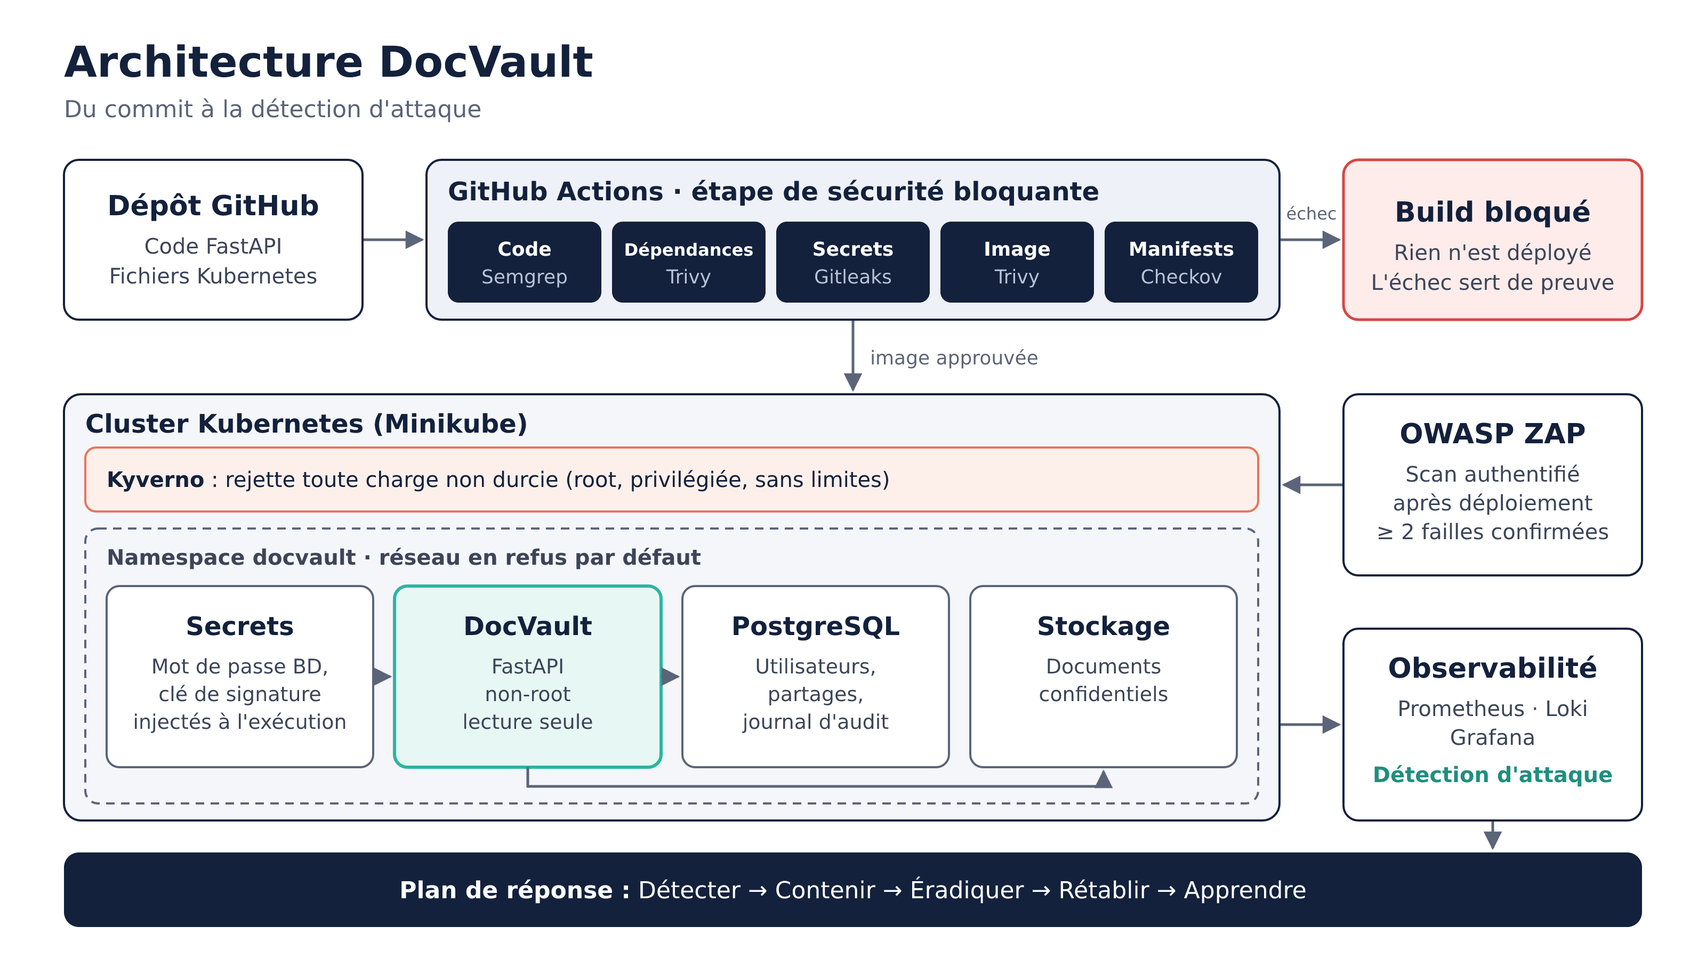
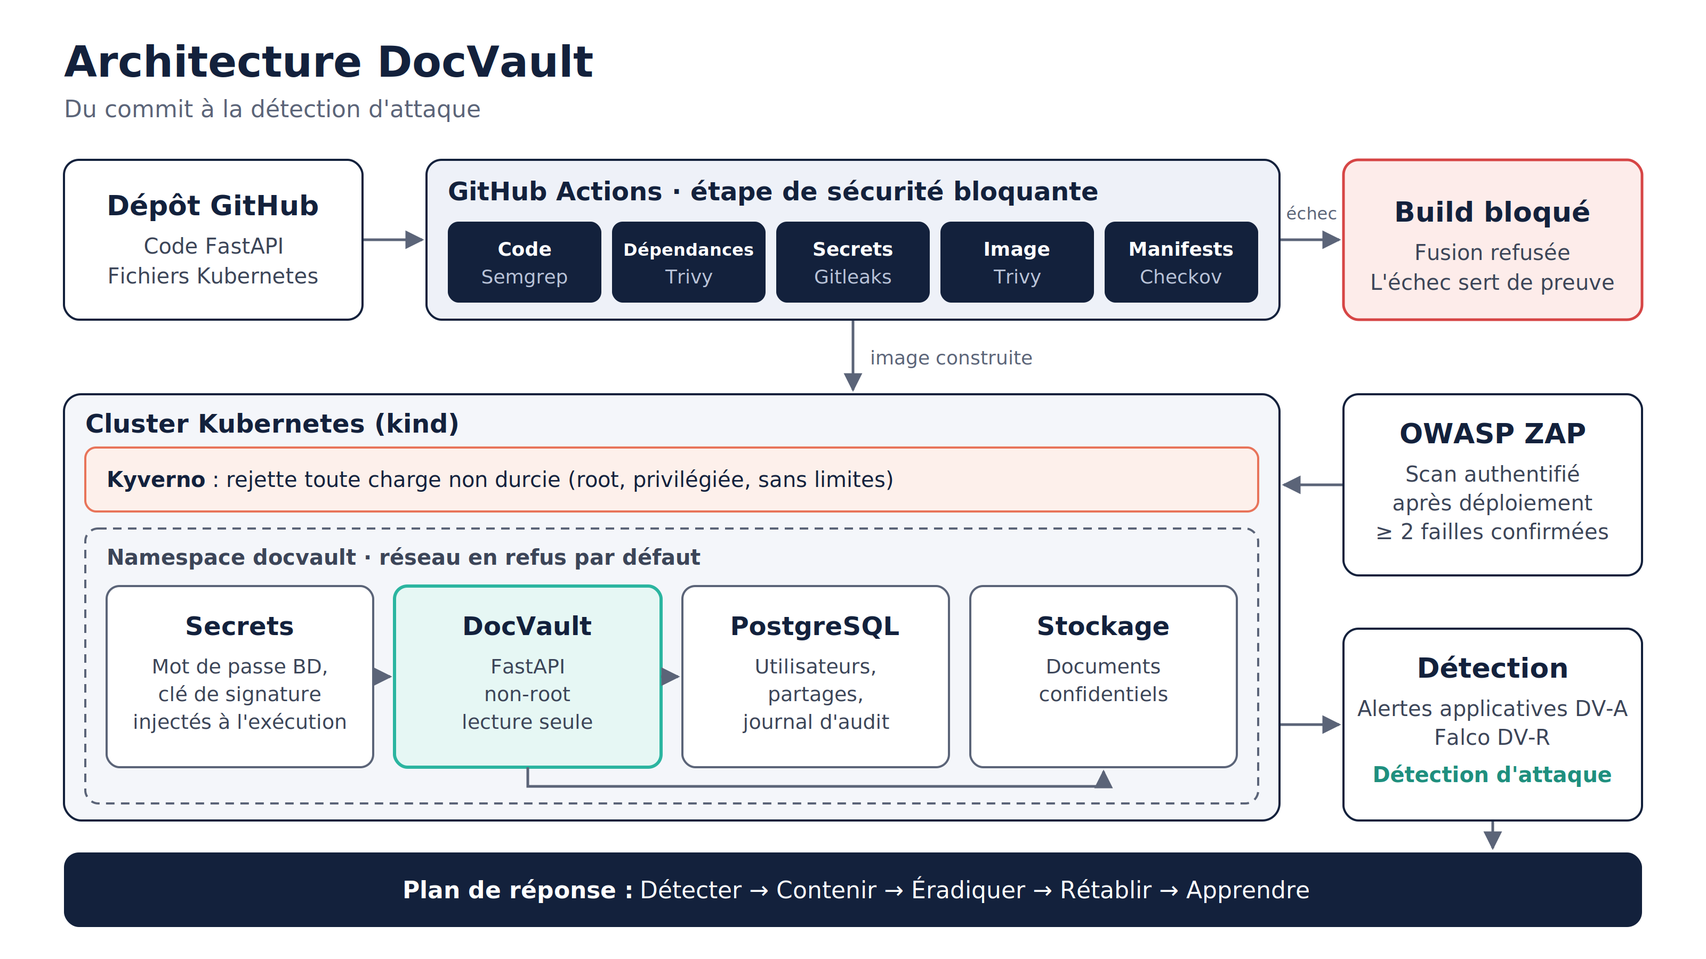
Turn on Dependabot, protect secure, and fix inconsistencies in the docs
Repository hygiene, the last gaps the incident response plan found:
- .github/dependabot.yml: weekly updates for pip, GitHub Actions and the
  Docker base image, with a 14-day cooldown matching the pinning rule.
  Dependabot alerts and security updates were enabled in the settings,
  and secure now has the same protection as main (pull request and the
  seven checks required, admins included, no force-push).

Inconsistencies the report sub-agent found, fixed:
- PR #2 shows "Merged" because the baseline commit became part of main's
  history when secure was merged; explained in the progress file.
- Stale statuses: step 9 merged; the image scan and Checkov ran on GitHub;
  README, backend README, main.py docstring and the threat model no longer
  describe an early or vulnerable state.
- Commit IDs changed by the purge (3e82f9a is now cd2ba33); "3 recorded
  exceptions" is 3 annotations for 2 exceptions; dates are local time
  unless marked UTC; the dry run's 4 branches versus the 9 of the real
  purge are explained.
- Security policy: exceptions are approved by a second team member, not
  by the author of a "one-person project".
- Incident response plan: status, DV-R4 and the demo script are current,
  and the severity table shows Falco's own priorities next to the team's
  incident levels.
- Architecture diagram: kind instead of Minikube, the application alerts
  and Falco instead of Prometheus, Loki and Grafana; re-rendered PNG.

diff --git a/backend/app/main.py b/backend/app/main.py
@@ -1,8 +1,9 @@
 """DocVault web application.
 
-This is the deliberately vulnerable baseline. Each planted flaw is marked with
-a "VULN" comment and described in docs/vulnerability-register.md. Run it only
-on localhost or in a dedicated test environment.
+The planted flaws of the course project are fixed; each fix is marked with an
+"F0x fix" comment and described in docs/vulnerability-register.md. The
+deliberately vulnerable version is the tag v0-vulnerable: run that one only on
+localhost or in a dedicated test environment.
 """
 
 import csv

diff --git a/docs/DEVELOPMENT_PROGRESS.md b/docs/DEVELOPMENT_PROGRESS.md
@@ -4,6 +4,8 @@ Last updated: 2026-11-23
 
 ## Current status
 
+Dates are local time (UTC+1) unless marked UTC; GitHub shows CI run times in UTC, so a run can appear one day earlier there.
+
 All seven planted flaws were documented, exploited, then fixed and re-tested. The fixes are merged into `secure`, and the leaked key was revoked, then purged from history. Seven checks run in CI (the five required by the course, ZAP and the tests), and `main` only accepts merges that pass all of them. The vulnerable baseline stays available as tag `v0-vulnerable`. The theme is pending validation by the professor.
 
 | Step | Status |
@@ -16,7 +18,7 @@ All seven planted flaws were documented, exploited, then fixed and re-tested. Th
 | 6. Authenticated ZAP in the pipeline | Done: F02, F03 and F04 confirmed on the baseline |
 | 7. Fix each flaw and re-test | Done: all seven fixed and re-tested, merged into `secure` |
 | 8. Revoke-then-purge demonstration | Done: revoked, verified, purged and verified (`docs/f05-revoke-then-purge.md`) |
-| 9. Runtime detection and incident response plan | Built on `feat/app-detection`, not merged yet; plan written, drills planned |
+| 9. Runtime detection and incident response plan | Done (merged into `main` through #11 and #12); drills planned |
 | 10. Report, slides, contribution sheet and AI declaration | AI log started |
 
 ## Completed
@@ -26,11 +28,12 @@ All seven planted flaws were documented, exploited, then fixed and re-tested. Th
 - Vulnerable application with login, three roles, upload, search, sharing, admin pages and an audit log
 - Vulnerability register for F01 to F07
 - Runtime detection: application alerts DV-A1 to DV-A4 and Falco rules DV-R1 to DV-R4, each proven by a demo in the `DAST (ZAP)` job ([runtime-detection.md](runtime-detection.md))
+- Dependabot (alerts, security updates and weekly version updates with a 14-day cooldown) and protection of `secure` with the same seven required checks as `main` (2026-11-24)
 - Account controls for incident response: admin password reset, disable and enable, sign one user out everywhere (session version in the cookie), own password change; audit log with client address and request ID, CSV export (on `feat/account-controls`, not merged yet)
 - Incident response plan with seven playbooks ([incident-response-plan.md](incident-response-plan.md)); no drill run yet
 - Repository made public on 2026-11-22, so that `main` can require the checks (branch protection is not available on private repositories in the free plan)
 - `main` protection: pull request required, all seven checks (five static, ZAP and the tests) must pass, applies to admins
-- `vulnerable-baseline` pushed and tagged `v0-vulnerable`; draft pull request #2 kept open as CI evidence, never to be merged
+- `vulnerable-baseline` pushed and tagged `v0-vulnerable`; draft pull request #2 kept as CI evidence and never merged by hand. GitHub now shows it as "Merged" (2026-11-23 02:19 UTC): `secure` was built on top of `vulnerable-baseline`, so when `secure` was merged into `main` (#10), the baseline commit became part of `main`'s history and GitHub closed #2 automatically. Its failing checks and screenshots remain valid evidence of the blocking pipeline
 - Image scan (Trivy) and deployment-file scan (Checkov) added to CI
 - Baseline Kubernetes manifests in `deploy/k8s/`, including the Kubernetes half of F07
 - Deploy stage in CI: `scripts/ci/deploy.sh` deploys to a throwaway kind cluster on the runner and signs in as a test user
@@ -61,7 +64,7 @@ Run locally with Docker on 2026-11-09, unless dated otherwise.
 | `run_all.py` on the hardened deploy and on Compose, 2026-11-23 | 6 of 7 exploitable; F07 not exploitable (UID 10001); F04 can no longer write outside storage |
 | F06 fix on Compose and on kind (with F07), 2026-11-23 | F06 not exploitable; dependency scan and image scan pass with 0 findings |
 | F05 revocation on Compose and kind, 2026-11-23 | Session forged with the leaked key refused (HTTP 303); Gitleaks clean on the working tree, history still holds the key |
-| Purge dry run, 2026-11-23 | Rewritten history has no leak; 4 branches and 1 tag would change; `main` unchanged |
+| Purge dry run, 2026-11-23 | Rewritten history has no leak; 4 branches and 1 tag would change at that time; `main` unchanged (the real purge, after more fix branches existed, rewrote 9 branches and the tag) |
 | F02 fix on Compose, 2026-11-23 | Not exploitable; search behaviour checked; Semgrep 0 findings |
 | F04 fix on Compose, 2026-11-23 | Not exploitable; no file written outside storage; preview, download and access check work |
 | F03 fix on Compose, 2026-11-23 | Not exploitable; CSP and other headers present; cookie `HttpOnly` |
@@ -77,7 +80,6 @@ Run locally with Docker on 2026-11-09, unless dated otherwise.
 
 ## Known limitations
 
-- The image scan and Checkov have run locally but not yet on GitHub.
 - The deploy stage uses kind, not Minikube. The same script runs locally, so Minikube is no longer needed.
 - The deploy stage does not wait for the static checks, so the vulnerable baseline can be scanned by ZAP. Merging still needs every check.
 - ZAP scans as one user, so it cannot find F01 (access between users), and it missed the stored XSS.
@@ -96,7 +98,6 @@ The seven planted flaws and the five unplanned weaknesses (O1 to O5) are fixed; 
 
 ## Next steps
 
-1. Merge the step 9 pull request into `secure`, then `secure` into `main`.
-2. Run the two planned drills (P2 with the Falco demo, P1 with a forged session) and record them in the plan.
-3. Turn on Dependabot and protect `secure` (the last gaps the incident response plan found).
-5. Step 10: report, slides, Annexe B sheets and the AI declaration.
+1. Merge #13 (O1 to O3), #14 (account controls) and the repository hygiene pull request into `secure`, then `secure` into `main`.
+2. Run the two planned drills (P1 with a forged session, P2 with the Falco demo) and record them in the incident response plan.
+3. Step 10: review and complete the French report (`docs/rapport/`), then the slides, the Annexe B sheets and the AI declaration.

diff --git a/docs/incident-response-plan.md b/docs/incident-response-plan.md
@@ -2,7 +2,7 @@
 
 This plan says what the team does when DocVault may be under attack or a secret may be exposed: who leads, how fast, which commands to run, and how to prove the problem is fixed. It covers the project period and the demo. It is written for a four-person student team with no on-call rota, so the response targets are best effort during working hours.
 
-Status on 2026-11-23: draft, not yet exercised. No drill has been run (see [Drills](#9-drills)). The application alerts (DV-A1 to DV-A4) and the Falco rules (DV-R1 to DV-R4) are being built in parallel and are not in `main` yet. Commands marked *(untested)* have not been run against a live environment; the first drills must confirm them.
+Status on 2026-11-24: not yet exercised; no drill has been run (see [Drills](#9-drills)). The application alerts (DV-A1 to DV-A4) and the Falco rules (DV-R1 to DV-R4) are in `main` and proven on every CI run. Commands marked *(untested)* have not been run against a live environment; the first drills must confirm them.
 
 The phases follow the classic cycle from NIST SP 800-61. The assets (AS1 to AS6) and threats (T01 to T18) are those of the [threat model](threat-model.md). Fixed flaws (F01 to F07) and open weaknesses (O1 to O3) are in the [vulnerability register](vulnerability-register.md).
 
@@ -93,16 +93,18 @@ These targets are sized for students working part-time and are not a service com
 
 ### Default severity per alert
 
-| Source | ID | Alert severity | Default level | Raise when |
+The third column is the severity written in the alert itself (Falco's own priority scale for DV-R). The incident level is the team's decision and can be higher: a Falco "Warning" for a shell in a container is still a SEV1 until a team member explains it.
+
+| Source | ID | Severity in the alert | Default level | Raise when |
 | --- | --- | --- | --- | --- |
 | App | DV-A1 `brute_force_suspected` | Medium | SEV3 | SEV2 if a `login` for the targeted account follows the failures; SEV1 if that account then did something its owner denies |
 | App | DV-A2 `forged_session` | High | SEV2 | SEV1 if the current signing key may be exposed, or the audit log shows actions nobody on the team made |
 | App | DV-A3 `access_probing` | Medium | SEV2 | SEV1 if the account obtained a document it had no right to |
 | App | DV-A4 `privilege_probe` | Low | SEV3 | SEV2 if it comes with DV-A3 or an unexpected role change; SEV1 if a non-admin got an admin page |
-| Falco | DV-R1 shell in a DocVault container | High | SEV1 | Not an incident if a team member's `kubectl exec` explains it |
-| Falco | DV-R2 unexpected program in the app container | High | SEV1 | Same |
-| Falco | DV-R3 sensitive file read | High | SEV1 | Same |
-| Falco | DV-R4 unexpected outbound connection *(may not exist)* | Medium | SEV2 | SEV1 if the connection succeeded, because the network policy then failed |
+| Falco | DV-R1 shell in a DocVault container | Warning | SEV1 | Not an incident if a team member's `kubectl exec` explains it |
+| Falco | DV-R2 unexpected program in the app container | Warning | SEV1 | Same |
+| Falco | DV-R3 sensitive file read | Critical | SEV1 | Same |
+| Falco | DV-R4 unexpected outbound connection | Warning | SEV2 | SEV1 if the connection succeeded, because the network policy then failed |
 | CI | Gitleaks finds a real secret | n/a | SEV1 | A confirmed false positive is not an incident: record an exception by fingerprint |
 | GitHub | Secret scanning alert or push protection block | n/a | SEV1 if the value is real | Enabled on 2026-11-23 |
 | CI | Trivy `HIGH` or `CRITICAL` with a fix, on `main` | n/a | SEV2 (`CRITICAL`), SEV3 (`HIGH`) | SEV1 if it is exploitable in DocVault, like F06 was |
@@ -755,7 +757,7 @@ Each drill follows the relevant playbook for real, with real evidence capture, a
 
 | Date | Scenario | Alert that fired | Time to detect | Time to contain | What went wrong | Status |
 | --- | --- | --- | --- | --- | --- | --- |
-| To be scheduled | P2 drill using the detection demo (`scripts/security/detection-demo.sh`, being built) | | | | | Planned, not done |
+| To be scheduled | P2 drill using the detection demo (`scripts/security/detection-demo.sh`) | | | | | Planned, not done |
 | To be scheduled | P1 drill: DV-A2 forged session (`run_all.py` with a random `DOCVAULT_LEAKED_KEY`, then a key rotation) | | | | | Planned, not done |
 
 ## 10. Known limits

diff --git a/docs/vulnerability-register.md b/docs/vulnerability-register.md
@@ -1,6 +1,6 @@
 # Vulnerability register
 
-All seven planted flaws were confirmed exploitable on 2026-11-09 and fixed on 2026-11-23; the fixes are merged into `secure`. Each one is documented here before any fix, as the course requires.
+All seven planted flaws were built and confirmed exploitable locally on 2026-11-09, committed on 2026-11-22 (commit `cd2ba33`, tag `v0-vulnerable`; it was `3e82f9a` before the F05 history purge rewrote it), and fixed on 2026-11-23; the fixes are merged into `main`. Each one is documented here before any fix, as the course requires.
 
 The app ran on `127.0.0.1` with Docker Compose. To reproduce every result, run [run_all.py](../scripts/exploits/run_all.py), which refuses any target other than this machine. Only test credentials are used.
 
@@ -76,7 +76,7 @@ The app ran on `127.0.0.1` with Docker Compose. To reproduce every result, run [
 
 ## F05: Hard-coded signing key
 
-- **Location (baseline, tag `v0-vulnerable`):** `backend/app/config.py` line 9, added in commit `3e82f9a`
+- **Location (baseline, tag `v0-vulnerable`):** `backend/app/config.py` line 9, added in commit `3e82f9a` (`cd2ba33` since the purge)
 - **Root cause:** the key that signs session cookies is in the source code. It is a test value.
 - **Impact:** anyone who can read the repository can forge a session for any user, including an administrator.
 - **Proof:** a cookie signed with this key for user ID 1 opened `/admin/users` with HTTP 200.
@@ -85,7 +85,7 @@ The app ran on `127.0.0.1` with Docker Compose. To reproduce every result, run [
 - **Verification of step 1 (2026-11-23):**
   - `run_all.py` read the leaked key from Git history and forged an administrator session: refused with HTTP 303 on Docker Compose and on the hardened kind deployment.
   - Start-up failed with no key and with a short one; migrations and seeding ran without the key.
-  - Gitleaks: no leak in the working tree. The history still holds the key in `3e82f9a`, so the check keeps failing until step 3.
+  - Gitleaks: no leak in the working tree. The history still held the key in `3e82f9a`, so the check kept failing until step 3.
 - **Fix, step 3, purge (2026-11-23):** [`purge-leaked-key.sh`](../scripts/security/purge-leaked-key.sh) replaced the value with `REMOVED-F05-SIGNING-KEY` in 9 branches and the tag `v0-vulnerable`, then force-pushed them. `main` was not rewritten.
 - **Verification of the purge (2026-11-23):** in a fresh clone of all branches and tags, `git log --all -S` and `git grep` over every commit found the old value 0 times, and Gitleaks found no leak in the working tree or the 22 commits of history. The local working copy was re-synced and its old objects pruned.
 - **Still exposed:** GitHub keeps the old commits reachable through pull request references and cached pages until GitHub Support removes them. The key no longer works, so those copies are harmless.
@@ -115,7 +115,7 @@ The app ran on `127.0.0.1` with Docker Compose. To reproduce every result, run [
   - [30-network-policies.yaml](../deploy/k8s/30-network-policies.yaml): default deny; only the app reaches the database, and nothing reaches the internet.
   - [Kyverno policies](../deploy/kyverno/pod-security.yaml): the `restricted` Pod Security Standard, a read-only root filesystem, resource limits and no service account token, all enforced at admission.
 - **Verification (2026-11-23, fresh kind cluster):**
-  - Checkov: 0 failed checks on the Dockerfile and manifests, with 3 recorded exceptions (E1, E2 in the [security policy](security-policy.md)). Semgrep's `missing-user` finding is gone.
+  - Checkov: 0 failed checks on the Dockerfile and manifests, with 3 skip annotations covering the 2 recorded exceptions (E1 on both workloads, E2 on the app; see the [security policy](security-policy.md)). Semgrep's `missing-user` finding is gone.
   - Image scan: 0 operating-system vulnerabilities (189 before); the image went from 1.19 GB to 230 MB. Only PyYAML (F06) remains.
   - A pod with no security context was refused at admission by all four Kyverno policies.
   - A pod in another namespace got no response from the database.

diff --git a/docs/security-policy.md b/docs/security-policy.md
@@ -14,6 +14,10 @@ The build fails on any exposed secret and on any high-impact issue that we can a
 | Dynamic testing, after deployment to a throwaway kind cluster | OWASP ZAP | Any `High` risk alert | This covers exploitable behavior on the running application, such as SQL injection. `Medium` alerts are often missing headers and are tracked instead of blocking | Active |
 | Runtime detection, after deployment (same job as ZAP) | Application alerts and Falco | Any application alert DV-A1 to DV-A4, or Falco rule DV-R1 to DV-R3, that does not fire when its demo triggers it; or any DocVault Falco alert during a normal deploy | Detection that silently stops working gives false confidence, and a noisy rule gets ignored. Both are checked on every run. DV-R4 is reported but not required | Active |
 
+## Keeping dependencies current
+
+[Dependabot](../.github/dependabot.yml) opens weekly pull requests for the Python packages, the GitHub Actions and the Docker base image. It waits 14 days after a release, like the project's own pinning rule, so a bad release has time to be noticed; security updates are not delayed. Its pull requests must pass the same required checks as any other change. Dependabot alerts and security updates are enabled in the repository settings (2026-11-24).
+
 ## Deliberately vulnerable version
 
 The initial version is expected to fail this pipeline. Those failures are kept as evidence, and no exception is used to make that version pass.
@@ -33,7 +37,7 @@ An exception is allowed only when all of these are recorded in the register belo
 
 These durations are judgments sized to a short project and are not an external benchmark. No exception may remain open at final submission.
 
-Each exception is approved by the project owner. In a one-person project the author also approves the exception, so there is no separation of duties. This is a known weakness.
+Each exception is approved by a team member other than its author, normally M2 (CI and secrets), in the pull request that adds it. Only the repository owner has write access on GitHub and pull requests need no approval there, so this separation of duties is a team rule, not enforced by GitHub. This is a known weakness.
 
 ## Exception register
 

diff --git a/docs/ai-usage.md b/docs/ai-usage.md
@@ -28,3 +28,4 @@ The last column is for the student to complete after reviewing each item.
 | 2026-11-23 | `docs/incident-response-plan.md`, written by a Claude Code sub-agent from a written brief, then reviewed and corrected (F07 check) | File paths checked; two commands tested on SQLite only; other commands marked untested | To complete |
 | 2026-11-24 | O1 to O3 fixes: CSRF tokens (`csrf.py`), login lock (`login_throttle.py`), upload size limit and quota (migration `0002`), CSRF tokens in every script and the ZAP login, 14 tests | 61 tests passed; `run_all.py` and `app_detection_demo.py` on Compose; full CI sequence on kind (see the progress file) | To complete |
 | 2026-11-24 | Account controls: password reset, disable and enable, per-user session revocation, own password change, request IDs, address and request ID in the audit log, CSV export (migration `0003`), 15 tests, incident response plan updated | 76 tests passed; migration upgrade tested on PostgreSQL with data; features checked on Compose | To complete |
+| 2026-11-24 | Dependabot configuration and repository settings (alerts, security updates, protection of `secure`); architecture diagram updated (kind, application alerts, Falco); consistency fixes across the docs found by the report sub-agent | Settings read back through the GitHub API; diagram re-rendered and checked visually | To complete |

diff --git a/README.md b/README.md
@@ -2,9 +2,9 @@
 
 DocVault is a web application for storing and sharing confidential documents. It is built for a DevSecOps course project: it starts with deliberate security flaws, then is secured across its lifecycle, from source code to runtime monitoring.
 
-The project is in early development. See [docs/DEVELOPMENT_PROGRESS.md](docs/DEVELOPMENT_PROGRESS.md) for its current status.
+`main` holds the secured application: the seven planted flaws are fixed, the CI blocks on seven security checks, and the Kubernetes deployment is hardened and watched at runtime. The deliberately vulnerable starting point is kept as the tag `v0-vulnerable`. See [docs/DEVELOPMENT_PROGRESS.md](docs/DEVELOPMENT_PROGRESS.md) for the status and the evidence, and [docs/rapport/](docs/rapport/) for the final report.
 
-> Deliberately vulnerable versions of this application must only run locally or in a dedicated test environment.
+> The deliberately vulnerable version (tag `v0-vulnerable`) must only run locally or in a dedicated test environment.
 
 ## Repository layout
 

diff --git a/docs/threat-model.md b/docs/threat-model.md
@@ -2,7 +2,7 @@
 
 Unauthorized access to confidential documents is DocVault's main risk, so access control, file handling and secret protection get the most attention.
 
-This model uses STRIDE and maps to [OWASP Top 10:2025](https://github.com/OWASP/Top10/tree/master/2025/docs/en). It describes the planned design as of 2026-11-09. No application code exists yet, so exact code locations will be recorded in the vulnerability register when each flaw is built, before it is fixed.
+This model uses STRIDE and maps to [OWASP Top 10:2025](https://github.com/OWASP/Top10/tree/master/2025/docs/en). It was written on 2026-11-09, before the application code, from the planned design; code locations are recorded in the vulnerability register. The controls column was updated as the controls were built.
 
 Risk ratings are qualitative judgments, not measurements.
 

diff --git a/docs/f05-revoke-then-purge.md b/docs/f05-revoke-then-purge.md
@@ -1,6 +1,6 @@
 # F05: revoke, then purge
 
-The signing key for session cookies was committed in `backend/app/config.py` (commit `3e82f9a`, tag `v0-vulnerable`). The repository has been public since 2026-11-22, so the key must be treated as known to anyone. This page is the procedure, and the record of when each step was done.
+The signing key for session cookies was committed in `backend/app/config.py` (commit `3e82f9a`, tag `v0-vulnerable`; the purge rewrote that commit as `cd2ba33`). The repository has been public since 2026-11-22, so the key must be treated as known to anyone. This page is the procedure, and the record of when each step was done.
 
 The order matters. Purging Git history does not remove copies that people already cloned, forked or cached. Only revoking the key makes those copies useless, so it comes first.
 

diff --git a/backend/README.md b/backend/README.md
@@ -1,3 +1,3 @@
 # Backend
 
-FastAPI application with server-rendered pages and Alembic migrations. This branch is the deliberately vulnerable baseline: planted flaws are marked with `VULN` comments and described in [the vulnerability register](../docs/vulnerability-register.md).
+FastAPI application with server-rendered pages and Alembic migrations. The planted flaws are fixed here; each fix is marked with an `F0x fix` comment and described in [the vulnerability register](../docs/vulnerability-register.md). The deliberately vulnerable version, with its `VULN` comments, is the tag `v0-vulnerable`.
